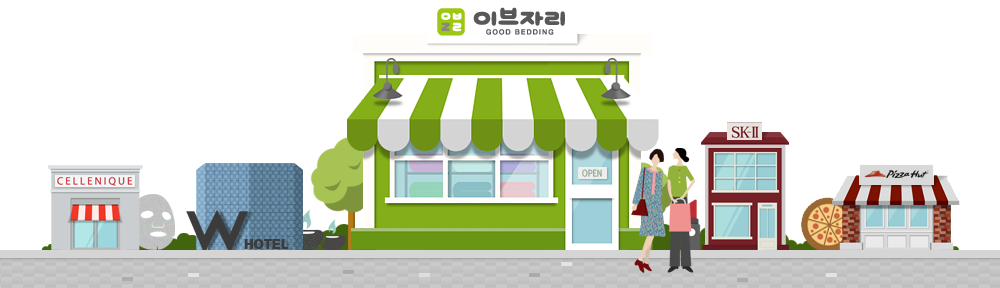
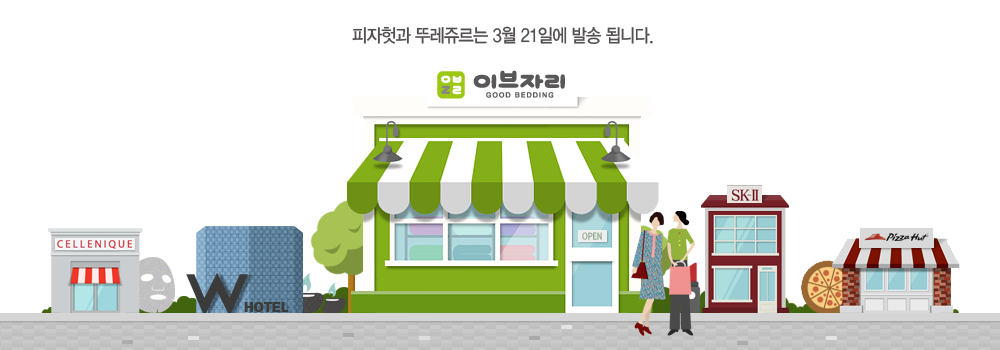
메인 이미지 교체

diff --git a/app/assets/stylesheets/webStyle.css.scss b/app/assets/stylesheets/webStyle.css.scss
@@ -103,7 +103,7 @@
 
 .characterBox{
     width: 1000px;
-    height: 288px;
+    height: 350px;
     margin-top: -140px;
     position: absolute;
     left: 50%;
